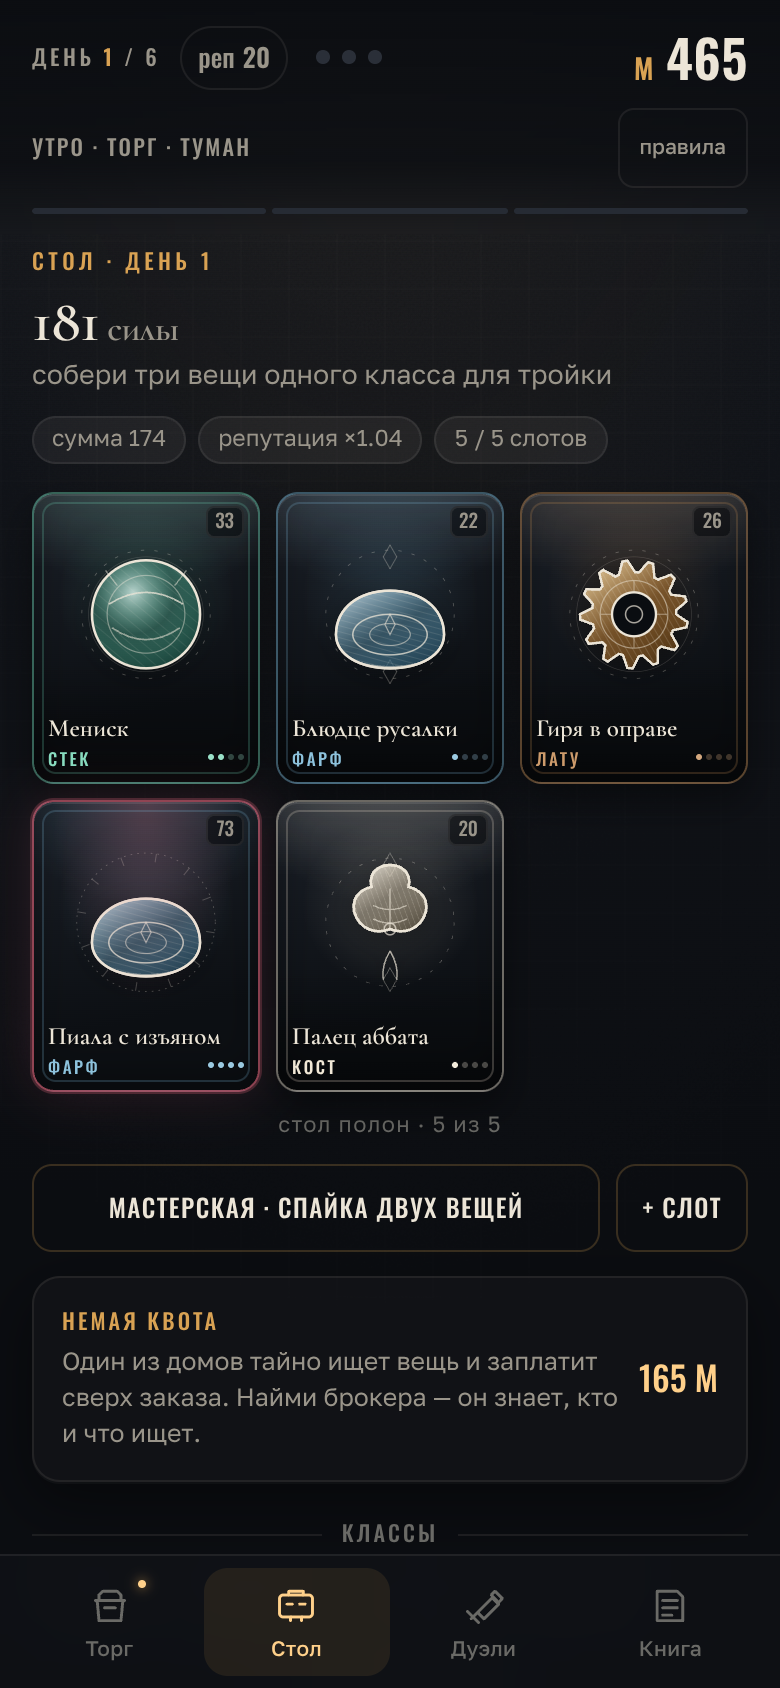
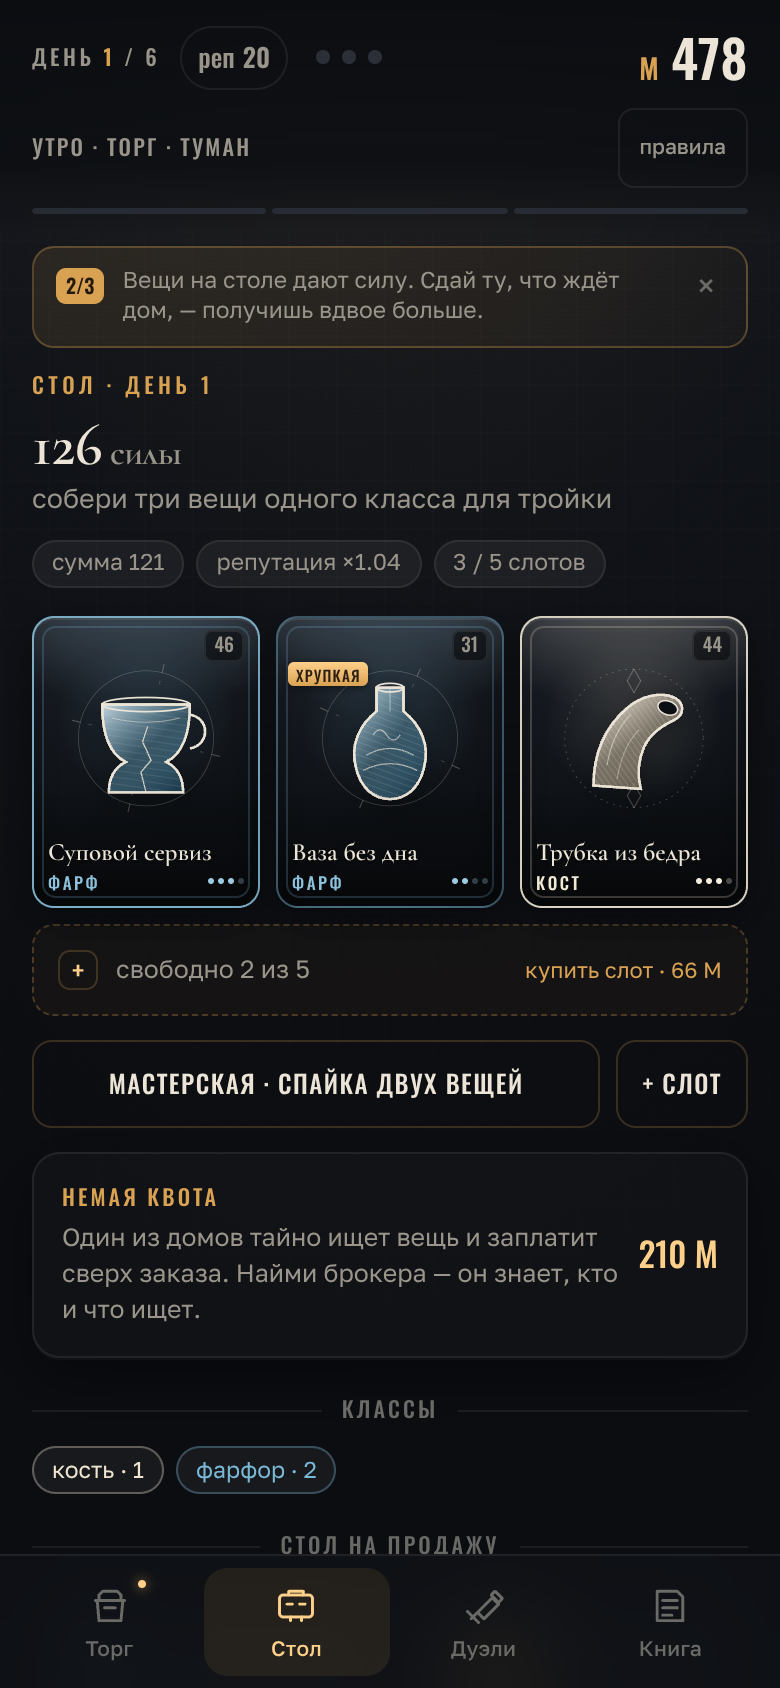
Наставник: три шага, которые снимаются действием, а не текстом

diff --git a/src/ui/app.js b/src/ui/app.js
@@ -126,6 +126,36 @@ function closeModal() {
 }
 
 // ---------------------------------------------------------------- отрисовка
+/**
+ * Обучение без простыни текста: ровно один шаг за раз, и шаг снимается
+ * не кнопкой «понятно», а самим действием. Три шага за первый день.
+ */
+const TIPS = [
+  { id: 'buy', tab: 'market', text: 'Возьми первый лот: «СТАВКА» → сумма. Ценность ≈ видна под названием.' },
+  { id: 'table', tab: 'table', text: 'Вещи на столе дают силу. Сдай ту, что ждёт дом, — получишь вдвое больше.' },
+  { id: 'duel', tab: 'duel', text: 'Вечером — дуэль. Смотри прогноз приёма: он считается до боя.' },
+];
+function currentTip() {
+  if (!S || !S.tutorial || S.tipsDone?.length >= TIPS.length) return null;
+  return TIPS.find((t) => !(S.tipsDone || []).includes(t.id)) || null;
+}
+function doneTip(id) {
+  if (!S) return;
+  S.tipsDone = [...(S.tipsDone || []), id];
+  if (TIPS.every((t) => S.tipsDone.includes(t.id))) S.tutorial = false;
+  save();
+}
+function tipBar() {
+  const tip = currentTip();
+  if (!tip) return '';
+  const step = TIPS.findIndex((t) => t.id === tip.id) + 1;
+  return `<div class="tipbar" data-tip="${tip.id}">
+    <span class="tipbar__n">${step}/${TIPS.length}</span>
+    <span class="tipbar__t">${esc(tip.text)}</span>
+    <button class="tipbar__x" data-act="tipSkip" aria-label="Скрыть подсказки">×</button>
+  </div>`;
+}
+
 function render(resetScroll = false) {
   if (!S) return;
   renderHUD();
@@ -210,7 +240,8 @@ function renderMarket() {
   const ordersHtml = S.orders.filter((o) => !o.done).map((o) => orderRow(o)).join('') ||
     `<div class="small faint" style="padding:6px 2px">Заказы на сегодня закрыты. Новые — завтра.</div>`;
 
-  SCREEN.innerHTML = `
+  SCREEN.innerHTML = `${tipBar()}
+    
     <h2 class="h-title" style="margin-top:2px">${esc(styleName)}</h2>
     <p class="h-sub">${esc(styleNote)}</p>
     ${S.market.focusCount >= 2 ? `<div class="row" style="margin-top:8px;gap:6px">
@@ -393,7 +424,8 @@ function renderTable() {
   const trip = t.triples.length;
   const classesCount = CLS.map((c) => ({ c, n: S.stash.filter((r) => r.class === c).length })).filter((x) => x.n > 0);
 
-  SCREEN.innerHTML = `
+  SCREEN.innerHTML = `${tipBar()}
+    
     <div class="eyebrow">Стол · день ${S.day}</div>
     <h2 class="h-title">${power}<span style="font-size:18px;color:var(--ink-dim)"> силы</span></h2>
     <p class="h-sub">${trip ? `тройка: ${t.triples.map((c) => CLASSES[c].name.toLowerCase()).join(', ')} · ×${(1 + trip * 0.18 + (t.allDifferent ? 0.12 : 0)).toFixed(2)}` : t.allDifferent ? 'все классы разные · ×1.12' : 'собери три вещи одного класса для тройки'}</p>
@@ -489,7 +521,7 @@ function pledgeRow(p, i) {
 // ---------------------------------------------------------------- ДУЭЛИ
 function renderDuel() {
   if (!S.duel) {
-    SCREEN.innerHTML = `
+    SCREEN.innerHTML = `${tipBar()}
       <div class="eyebrow">Вечер · арена заказов</div>
       <h2 class="h-title">Дуэли</h2>
       <p class="h-sub">Три боя за вечер. Ставка из монет, победа — приём и стол, а не удача.</p>
@@ -826,6 +858,7 @@ const actions = {
     if (!r.ok) return toast(esc(r.why), 'bad');
     sound.coin(); buzz(18);
     toast(`Заказ исполнен: +${money(r.reward)} М`, 'good');
+    doneTip('table');
     render();
   },
 
@@ -869,6 +902,7 @@ const actions = {
     toast('Заклад под слово: +140 М, −6 репутации.', 'brass', 3000);
     render();
   },
+  tipSkip() { S.tutorial = false; render(); save(); },
   deal() {
     const d = S.deal;
     const r = E.takeDeal(S);
@@ -909,6 +943,7 @@ const actions = {
     if (!r.ok) return toast(esc(r.why), 'bad');
     buzz(30);
     if (r.result.win) sound.win(); else sound.lose();
+    doneTip('duel');
     render();
   },
 
@@ -1019,7 +1054,11 @@ function openBidSheet(lot) {
     const r = E.placeBid(S, lot.id, ui.bidValue);
     if (!r.ok) { sound.no(); buzz(20); return toast(esc(r.why), 'bad'); }
     closeModal();
-    if (r.won) { sound.coin(); buzz(24); toast(`Взял за ${money(r.price)} М · каталог ${money(lot.value)} М`, 'good', 3200); }
+    if (r.won) {
+      sound.coin(); buzz(24);
+      toast(`Взял за ${money(r.price)} М · каталог ${money(lot.value)} М`, 'good', 3200);
+      doneTip('buy');
+    }
     else { sound.no(); buzz(16); toast(`Не взял: ${esc(r.note)}`, 'bad', 3200); }
     render();
   };

diff --git a/src/ui/styles.css b/src/ui/styles.css
@@ -1152,3 +1152,27 @@ input[type='range']:focus-visible::-webkit-slider-thumb { box-shadow: 0 0 0 4px 
   font-family: var(--f-num); font-size: 9px; letter-spacing: .02em;
   color: var(--ink-faint); margin-top: -2px; margin-bottom: 2px;
 }
+
+/* ---------- Наставник: один шаг за раз ---------- */
+.tipbar {
+  display: flex; align-items: flex-start; gap: 9px;
+  padding: 9px 10px 9px 11px;
+  margin-bottom: 11px;
+  border-radius: 11px;
+  border: 1px solid rgba(217,162,83,.3);
+  background: linear-gradient(120deg, rgba(217,162,83,.11), rgba(217,162,83,.03));
+  animation: tipIn .3s var(--snap) both;
+}
+@keyframes tipIn { from { opacity: 0; transform: translateY(-6px); } to { opacity: 1; transform: none; } }
+.tipbar__n {
+  font-family: var(--f-num); font-size: 10px; font-weight: 600;
+  color: #241a0c; background: var(--brass);
+  border-radius: 5px; padding: 2px 5px; flex: 0 0 auto; margin-top: 1px;
+}
+.tipbar__t { font-size: 11.5px; line-height: 1.35; color: var(--ink-dim); flex: 1 1 auto; }
+.tipbar__x {
+  flex: 0 0 auto; width: 26px; height: 26px; margin: -3px -3px 0 0;
+  border: 0; background: none; color: var(--ink-faint);
+  font-size: 17px; line-height: 1; border-radius: 6px;
+}
+.tipbar__x:active { background: rgba(255,255,255,.07); }
